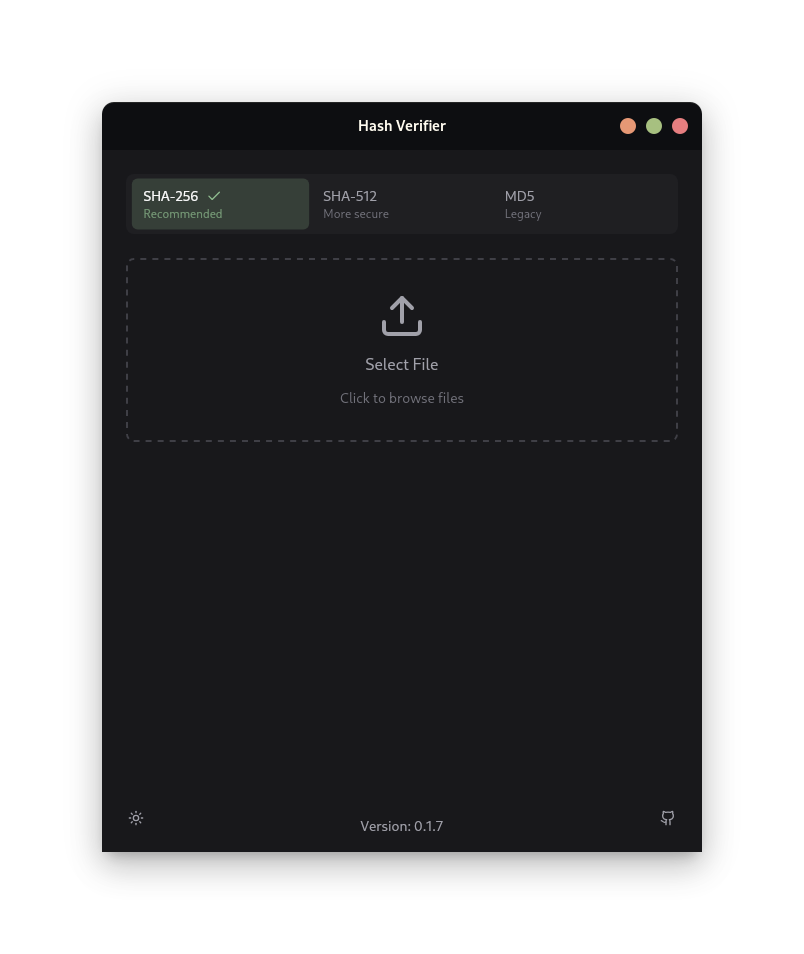
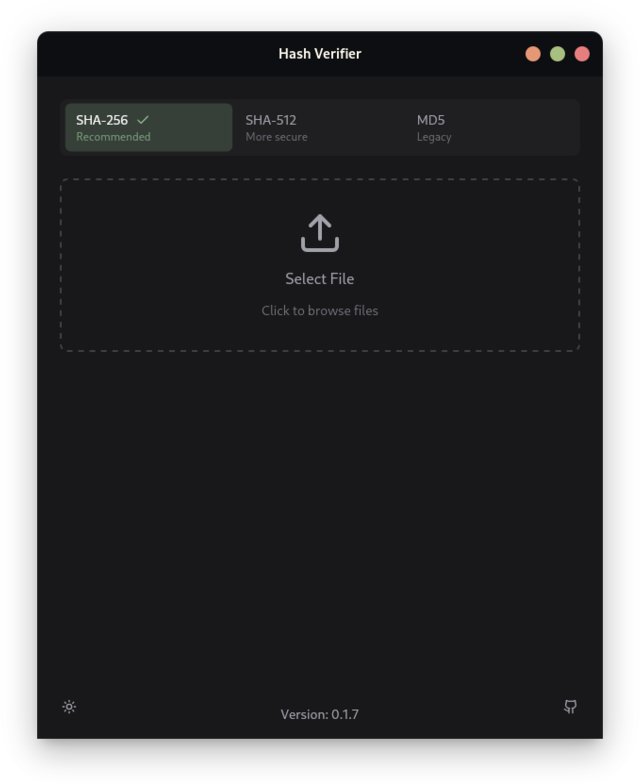
Metadata update

Changed region(s): [[0.0312, 0.0306, 0.9688, 0.9796], [0.4062, 0.2755, 0.5938, 0.4286], [0.625, 0.1837, 0.6562, 0.2449]]

diff --git a/index.html b/index.html
@@ -2,9 +2,8 @@
 <html lang="en">
   <head>
     <meta charset="UTF-8" />
-    <link rel="icon" type="image/svg+xml" href="/vite.svg" />
     <meta name="viewport" content="width=device-width, initial-scale=1.0" />
-    <title>Tauri + React + Typescript</title>
+    <title>Hash Verifier</title>
   </head>
 
   <body>
